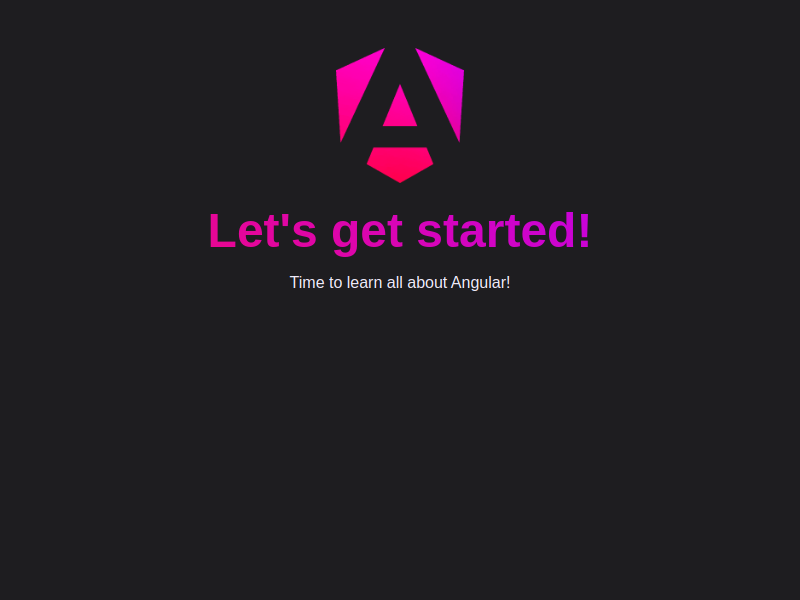
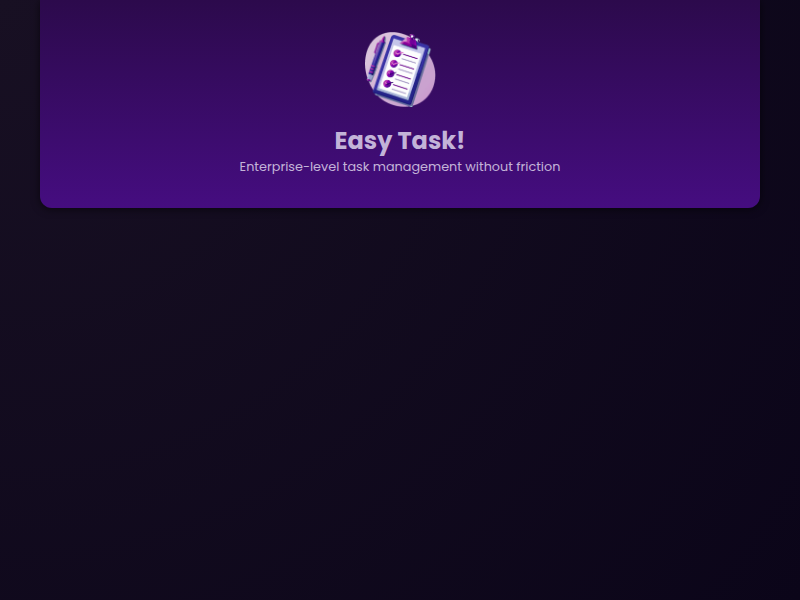
Header

diff --git a/src/index.html b/src/index.html
@@ -1,13 +1,19 @@
 <!doctype html>
 <html lang="en">
-<head>
-  <meta charset="utf-8">
-  <title>Essentials</title>
-  <base href="/">
-  <meta name="viewport" content="width=device-width, initial-scale=1">
-  <link rel="icon" type="image/x-icon" href="favicon.ico">
-</head>
-<body>
-  <app-root></app-root>
-</body>
+  <head>
+    <meta charset="utf-8" />
+    <title>EasyTrack</title>
+    <base href="/" />
+    <meta name="viewport" content="width=device-width, initial-scale=1" />
+    <link rel="icon" type="image/x-icon" href="favicon.ico" />
+    <link rel="preconnect" href="https://fonts.googleapis.com" />
+    <link rel="preconnect" href="https://fonts.gstatic.com" crossorigin />
+    <link
+      href="https://fonts.googleapis.com/css2?family=Poppins:wght@400;700&display=swap"
+      rel="stylesheet"
+    />
+  </head>
+  <body>
+    <app-root></app-root>
+  </body>
 </html>

diff --git a/src/app/header/header.component.css b/src/app/header/header.component.css
@@ -1,0 +1,48 @@
+header {
+  display: flex;
+  flex-direction: column;
+  align-items: center;
+  gap: 1rem;
+  width: 90%;
+  max-width: 50rem;
+  margin: 0 auto 2rem auto;
+  text-align: center;
+  background: linear-gradient(to bottom, #2c0a4c, #450d80);
+  padding: 1rem;
+  border-bottom-right-radius: 12px;
+  border-bottom-left-radius: 12px;
+  box-shadow: 0 1px 8px rgba(0, 0, 0, 0.6);
+}
+
+img {
+  width: 3.5rem;
+  object-fit: contain;
+}
+
+h1 {
+  font-size: 1.25rem;
+  margin: 0;
+  padding: 0;
+}
+
+p {
+  margin: 0;
+  font-size: 0.8rem;
+  text-wrap: balance;
+}
+
+@media (min-width: 768px) {
+  header {
+    padding: 2rem;
+  }
+
+  img {
+    width: 4.5rem;
+  }
+
+  h1 {
+    font-size: 1.5rem;
+    margin: 0;
+    padding: 0;
+  }
+}

diff --git a/src/styles.css b/src/styles.css
@@ -1,10 +1,17 @@
 /* You can add global styles to this file, and also import other style files */
+* {
+  box-sizing: border-box;
+}
+
 html {
-  font-family: sans-serif;
+  height: 100%;
 }
 
 body {
+  font-family: "Poppins", sans-serif;
+  background: radial-gradient(circle at top left, #181023, #0b0519);
+  color: #c3b3d8;
   margin: 0;
-  background-color: #1e1d20;
-  color: #ede8f7;
+  padding: 0;
+  height: 100%;
 }

diff --git a/src/app/app.component.ts b/src/app/app.component.ts
@@ -1,9 +1,10 @@
 import { Component } from '@angular/core';
+import { HeaderComponent } from './header/header.component';
 
 @Component({
   selector: 'app-root',
   standalone: true,
-  imports: [],
+  imports: [HeaderComponent],
   templateUrl: './app.component.html',
   styleUrl: './app.component.css',
 })

diff --git a/src/app/header/header.component.ts b/src/app/header/header.component.ts
@@ -1,0 +1,12 @@
+import { Component } from '@angular/core';
+
+@Component({
+  selector: 'app-header',
+  standalone: true,
+  imports: [],
+  templateUrl: './header.component.html',
+  styleUrl: './header.component.css'
+})
+export class HeaderComponent {
+
+}

diff --git a/src/app/app.component.html b/src/app/app.component.html
@@ -1,5 +1,1 @@
-<header>
-  <img src="assets/angular-logo.png" alt="The Angular logo: The letter 'A'" />
-  <h1>Let's get started!</h1>
-  <p>Time to learn all about Angular!</p>
-</header>
+<app-header></app-header>

diff --git a/src/app/header/header.component.html b/src/app/header/header.component.html
@@ -1,0 +1,7 @@
+<header>
+  <img src="./assets/task-management-logo.png" alt="A Todo List" />
+  <div>
+    <h1>Easy Task!</h1>
+    <p>Enterprise-level task management without friction</p>
+  </div>
+</header>

diff --git a/README.md b/README.md
@@ -1,32 +1,25 @@
-# **Commit: SetUp**
+# **Commit: Header**
 
-## Objetivo: Copia el proyecto
+## Objetivo: Crea un componente Header
 
-- Descargar de github:
+copia los archivos:
+
+- header.component.css
+- styles.css
+- index.html
+- task-managment-logo.png
+
+crea un header que consista en:
+una etiqueta header que envuelve a una imagen,
+y un div que contiene un h1 y un parrafo
 
 ```bash
-git clone https://github.com/Aletheios42/TodoList_Web
+ng generate component header --skip-tests
 ```
 
-- Cambiar a la version de inicio
-
-```bash
-git checkout <hash_commit>
-```
-
-- Instala las dependecias del proyecto.
-
-```npm
-npm install
-```
-
-- Inicia el server local
-
-```npm
-npm start
-```
+importa la clase a app.component.ts y el selector al html
 
 ## VISUALIZACION
 
 - Abre localhost:4200 en el navegador deberias ver:
-  ![SetUp Layout](./htmlOutput.png)
+  ![Header Layout](./htmlOutput.png)
